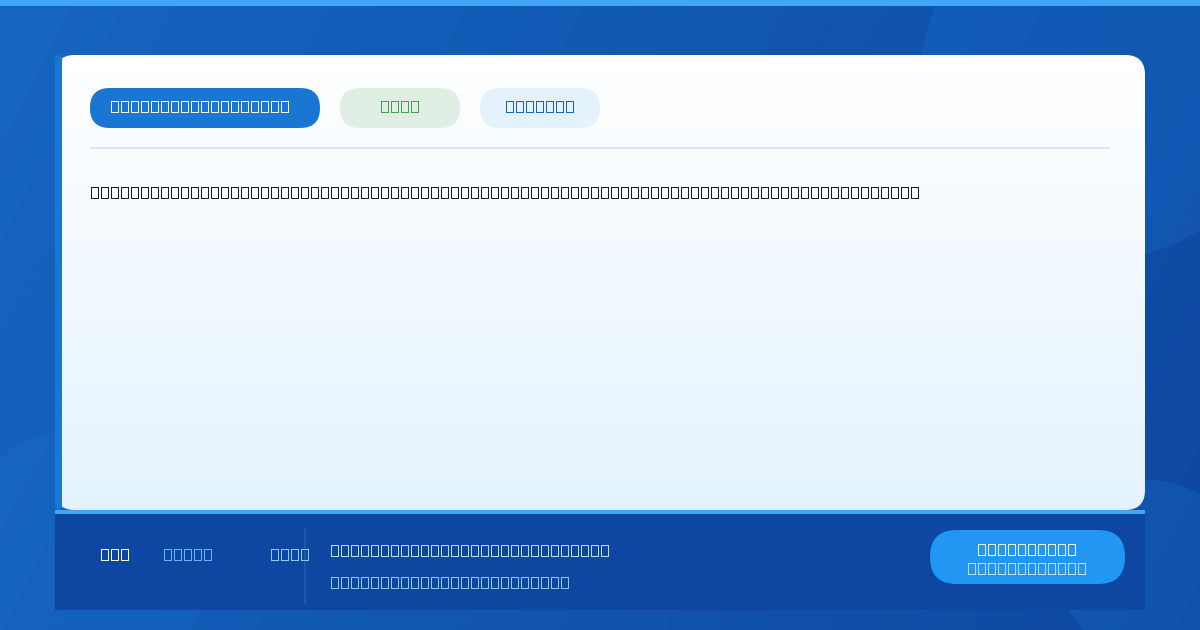
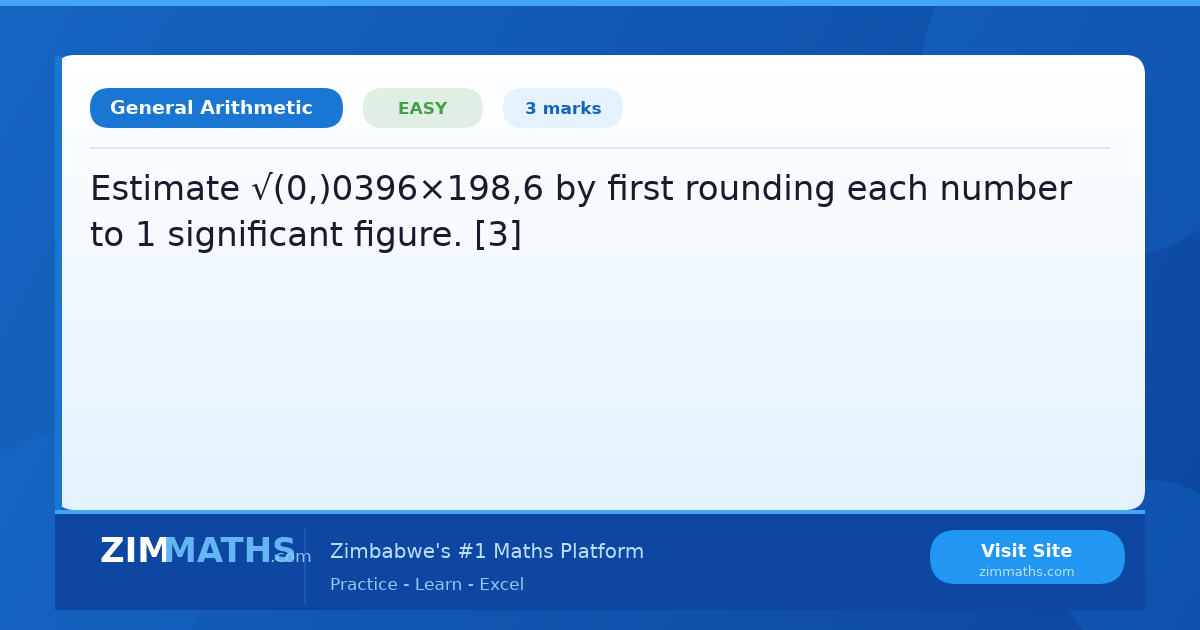
Fix footer spacing and overall text layout

diff --git a/api/src/routes/share.ts b/api/src/routes/share.ts
@@ -1,7 +1,7 @@
 import { Router, Request, Response } from "express";
-import { createCanvas, registerFont, CanvasRenderingContext2D } from "canvas";
-import prisma from "../lib/prisma";
+import { createCanvas, CanvasRenderingContext2D } from "canvas";
 import path from "path";
+import prisma from "../lib/prisma";
 
 // Point fontconfig to our config file so canvas finds DejaVu fonts
 process.env.FONTCONFIG_FILE = path.resolve(__dirname, "../../fonts.conf");
@@ -80,7 +80,11 @@ function difficultyColor(difficulty: string): string {
 
 function drawRoundedRect(
   ctx: CanvasRenderingContext2D,
-  x: number, y: number, w: number, h: number, r: number
+  x: number,
+  y: number,
+  w: number,
+  h: number,
+  r: number
 ) {
   ctx.beginPath();
   ctx.moveTo(x + r, y);
@@ -115,7 +119,6 @@ function wrapTextCanvas(
       currentLine = test;
     } else {
       if (currentLine) lines.push(currentLine);
-      // If a single word is too long, truncate it
       if (ctx.measureText(word).width > maxWidth) {
         let truncated = "";
         for (const ch of word) {
@@ -146,19 +149,6 @@ function wrapTextCanvas(
   return displayLines.length;
 }
 
-// ── Debug endpoint ─────────────────────────────────────────────────
-
-router.get("/debug/fonts", async (req: Request, res: Response) => {
-  const { execSync } = require("child_process");
-  try {
-    const fcList = execSync("fc-list 2>&1 || echo 'fc-list not found'").toString();
-    const fcMatch = execSync("fc-match 'DejaVu Sans' 2>&1 || echo 'fc-match not found'").toString();
-    res.json({ fcList: fcList.slice(0, 3000), fcMatch });
-  } catch (e: any) {
-    res.json({ error: e.message });
-  }
-});
-
 // ── Main share route ───────────────────────────────────────────────
 
 router.get("/:questionId", async (req: Request, res: Response) => {
@@ -176,7 +166,10 @@ router.get("/:questionId", async (req: Request, res: Response) => {
     }
 
     const cleanText = stripLatex(question.questionText);
-    const topicName = (question.topic?.name || "Mathematics").replace(/[^\x00-\x7F]/g, "");
+    const topicName = (question.topic?.name || "Mathematics").replace(
+      /[^\x00-\x7F]/g,
+      ""
+    );
     const difficulty = question.difficulty;
     const marks = question.marks;
     const diffColor = difficultyColor(difficulty);
@@ -241,7 +234,7 @@ router.get("/:questionId", async (req: Request, res: Response) => {
 
     // Difficulty badge
     const diffBadgeX = 90 + topicBadgeW + 20;
-    ctx.fillStyle = diffColor + "26"; // 15% opacity
+    ctx.fillStyle = diffColor + "26";
     drawRoundedRect(ctx, diffBadgeX, 88, 120, 40, 20);
     ctx.fill();
     ctx.font = "bold 17px 'DejaVu Sans', sans-serif";
@@ -258,7 +251,11 @@ router.get("/:questionId", async (req: Request, res: Response) => {
     ctx.font = "bold 17px 'DejaVu Sans', sans-serif";
     ctx.fillStyle = "#1565C0";
     ctx.textAlign = "center";
-    ctx.fillText(`${marks} mark${marks !== 1 ? "s" : ""}`, marksBadgeX + 60, 114);
+    ctx.fillText(
+      `${marks} mark${marks !== 1 ? "s" : ""}`,
+      marksBadgeX + 60,
+      114
+    );
     ctx.textAlign = "left";
 
     // Separator line
@@ -275,7 +272,7 @@ router.get("/:questionId", async (req: Request, res: Response) => {
     wrapTextCanvas(ctx, cleanText, 90, 200, 1020, 46, 5);
 
     // ── Footer ─────────────────────────────────────────────────
-    // Bottom accent
+    // Bottom accent line on card
     ctx.fillStyle = "#42A5F5";
     ctx.fillRect(55, 510, 1090, 4);
 
@@ -283,36 +280,36 @@ router.get("/:questionId", async (req: Request, res: Response) => {
     ctx.fillStyle = "#0D47A1";
     ctx.fillRect(55, 514, 1090, 96);
 
-    // Footer bottom accent
+    // Footer bottom rounded accent
     ctx.fillStyle = "#0D47A1";
     drawRoundedRect(ctx, 55, 606, 1090, 4, 4);
     ctx.fill();
 
-    // ZIMMATHS text
+    // Logo: ZIM MATHS .com — properly spaced
     ctx.font = "bold 34px 'DejaVu Sans', sans-serif";
     ctx.fillStyle = "white";
     ctx.fillText("ZIM", 100, 562);
     ctx.fillStyle = "#64B5F6";
-    ctx.fillText("MATHS", 163, 562);
-    ctx.font = "17px 'DejaVu Sans', sans-serif";
+    ctx.fillText("MATHS", 168, 562);
+    ctx.font = "15px 'DejaVu Sans', sans-serif";
     ctx.fillStyle = "#90CAF9";
-    ctx.fillText(".com", 270, 562);
+    ctx.fillText(".com", 300, 555);
 
     // Vertical separator
     ctx.strokeStyle = "rgba(66, 165, 245, 0.4)";
     ctx.lineWidth = 1;
     ctx.beginPath();
-    ctx.moveTo(305, 528);
-    ctx.lineTo(305, 604);
+    ctx.moveTo(340, 528);
+    ctx.lineTo(340, 604);
     ctx.stroke();
 
-    // Tagline
-    ctx.font = "20px 'DejaVu Sans', sans-serif";
+    // Tagline — two lines
+    ctx.font = "18px 'DejaVu Sans', sans-serif";
     ctx.fillStyle = "#BBDEFB";
-    ctx.fillText("Zimbabwe's #1 Maths Platform", 330, 558);
-    ctx.font = "17px 'DejaVu Sans', sans-serif";
+    ctx.fillText("Zimbabwe's #1 Maths Platform", 370, 554);
+    ctx.font = "15px 'DejaVu Sans', sans-serif";
     ctx.fillStyle = "#90CAF9";
-    ctx.fillText("Practice - Learn - Excel", 330, 590);
+    ctx.fillText("Practice - Learn - Excel", 370, 582);
 
     // Visit site button
     ctx.fillStyle = "#2196F3";
@@ -333,7 +330,6 @@ router.get("/:questionId", async (req: Request, res: Response) => {
     res.setHeader("Content-Type", "image/png");
     res.setHeader("Cache-Control", "public, max-age=3600");
     res.send(pngBuffer);
-
   } catch (error) {
     console.error("Share card error:", error);
     res.status(500).json({ error: "Failed to generate share card" });
